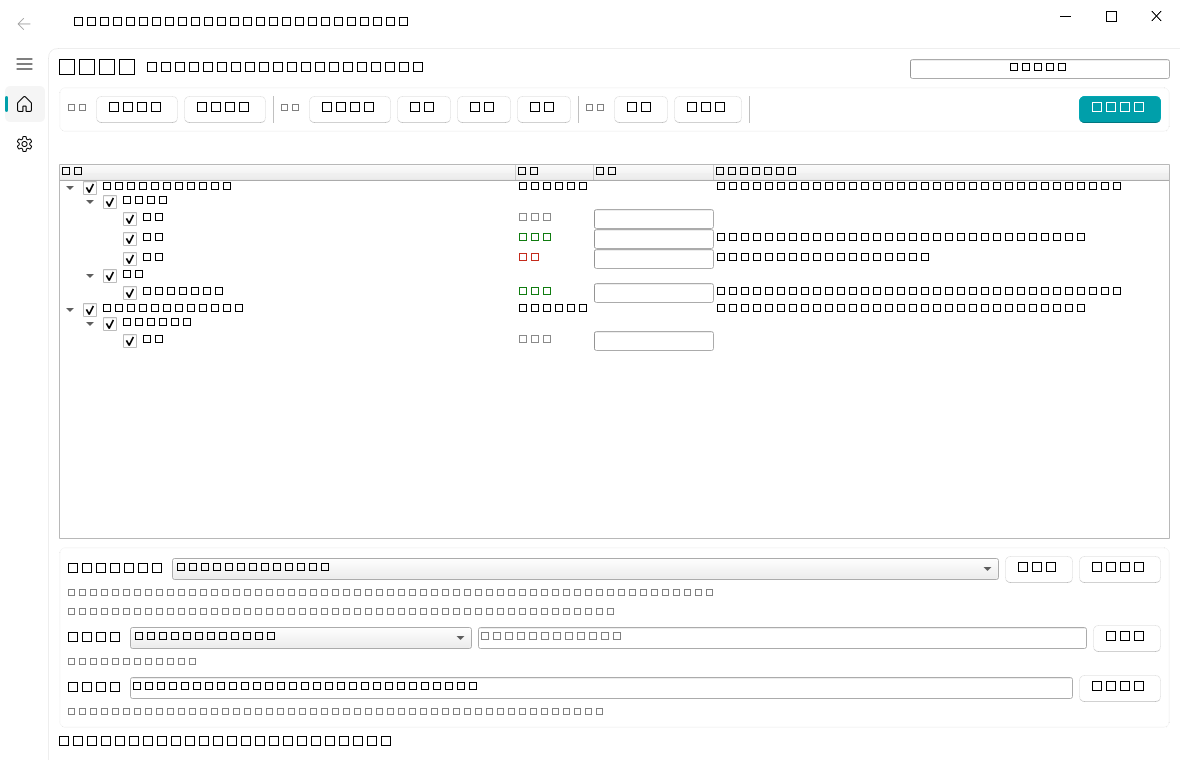
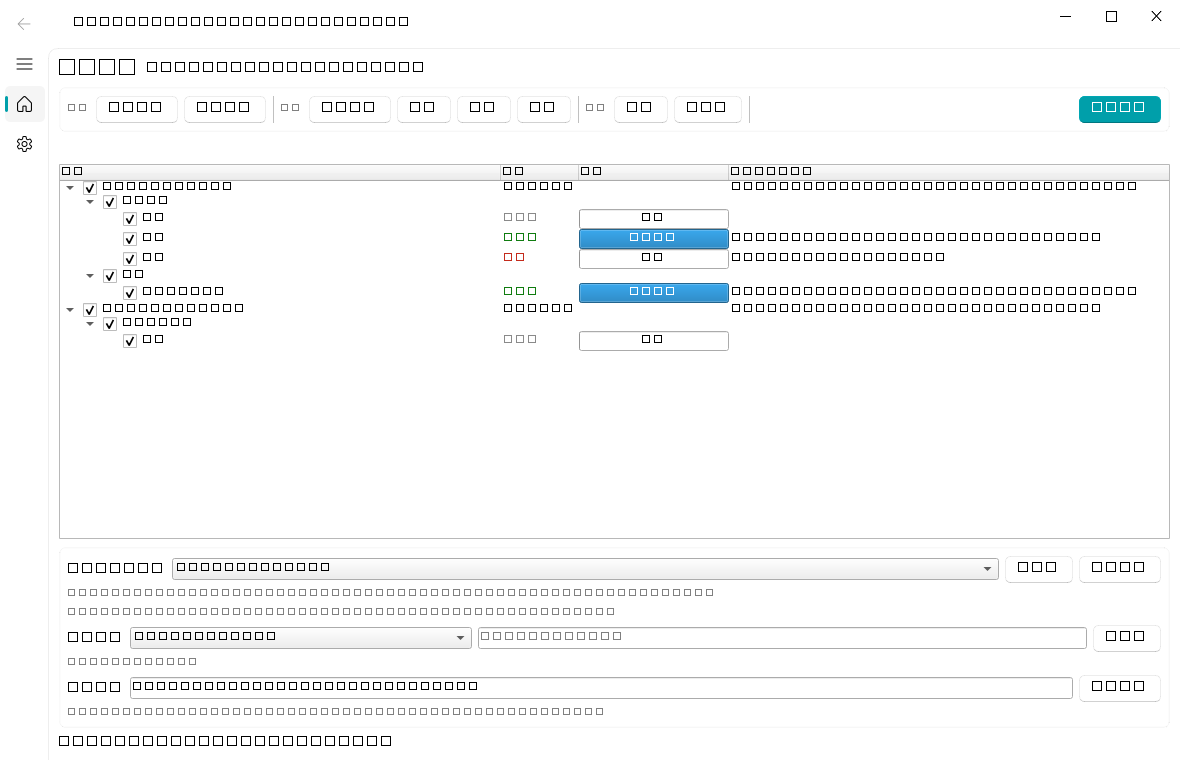
feat: 进度条体系优化
- 总进度：无“整体”字样、百分比独立固定宽度；无任务隐藏；探针/枚举时忙碌动画态
- 总进度平滑混算：当前张进度映射到其份额区间（不再 0%→10% 跳变）
- 快照进度与插件 rm_job 对齐：tile_progress 共享纯函数（像素权重+块切换防重复），修复多分块只算第一块类问题；7 个新单测
- 快照行：固定宽进度条内百分比文本；状态列只显示稳定文字；采样/块数移到左下角状态行与悬停提示
- 修复 itemChanged 信号内同步重建树导致的偶发访问冲突（延迟 refresh）

diff --git a/src/rmqueue/ui/queue_page.py b/src/rmqueue/ui/queue_page.py
@@ -14,7 +14,7 @@ import os
 import subprocess
 import sys
 
-from PySide6.QtCore import Qt, Signal
+from PySide6.QtCore import QTimer, Qt, Signal
 from PySide6.QtGui import QBrush, QColor, QGuiApplication
 from PySide6.QtWidgets import (
     QComboBox,
@@ -123,13 +123,19 @@ class QueuePage(QWidget):
         self.countLabel = BodyLabel("")
         head.addWidget(self.countLabel)
         head.addStretch(1)
+        self.lblPercent = QLabel("0.0%")
+        self.lblPercent.setAlignment(Qt.AlignmentFlag.AlignRight | Qt.AlignmentFlag.AlignVCenter)
+        fm = self.lblPercent.fontMetrics()
+        self.lblPercent.setFixedWidth(fm.horizontalAdvance("100.0%") + 6)
         self.progressOverall = QProgressBar()
         self.progressOverall.setRange(0, 1000)
         self.progressOverall.setValue(0)
-        self.progressOverall.setFixedWidth(260)
-        self.progressOverall.setTextVisible(True)
-        self.progressOverall.setFormat("整体 %p%")
+        self.progressOverall.setFixedWidth(240)
+        self.progressOverall.setTextVisible(False)
         head.addWidget(self.progressOverall)
+        head.addWidget(self.lblPercent)
+        self.progressOverall.hide()
+        self.lblPercent.hide()
         root.addLayout(head)
 
         # ---- 队列操作卡片（分组）
@@ -375,9 +381,11 @@ class QueuePage(QWidget):
                         sc_item.addChild(sh_item)
                         bar = QProgressBar()
                         bar.setRange(0, 1000)
-                        bar.setValue(0)
-                        bar.setTextVisible(False)
-                        bar.setFixedWidth(120)
+                        # 完成态直接满格；百分比文字恒定在条内（固定宽度，无抖动）
+                        bar.setValue(1000 if shot.app_status == "DONE" else 0)
+                        bar.setTextVisible(True)
+                        bar.setFormat("%p%")
+                        bar.setFixedWidth(150)
                         self.tree.setItemWidget(sh_item, 2, bar)
                         key = (_norm(f.path), scene.name, shot.uid)
                         self._rows[key] = (sh_item, bar)
@@ -418,7 +426,9 @@ class QueuePage(QWidget):
             if f is not None:
                 for shot in f.all_shots():
                     shot.selected = checked
-        self.refresh()
+        # 不要在 itemChanged 信号内同步重建树（删除信号源节点可能崩溃），
+        # 延迟到事件循环安全时刻再 refresh
+        QTimer.singleShot(0, self.refresh)
 
     def _set_all_selected(self, value: bool) -> None:
         if self._queue is None:
@@ -539,11 +549,33 @@ class QueuePage(QWidget):
             self.workerLabel.setText("渲染中…")
         else:
             self.workerLabel.setText("")
-            self.progressOverall.setValue(0)
+            self.overall_mode("hidden")
 
-    def set_overall(self, done: int, failed: int, total: int) -> None:
-        if total > 0:
-            self.progressOverall.setValue(int((done + failed) / total * 1000))
+    def overall_mode(self, mode: str) -> None:
+        """mode: hidden（无任务）| busy（忙碌动画，不显示数值）| normal（数值进度）"""
+        if mode == "hidden":
+            self.progressOverall.hide()
+            self.lblPercent.hide()
+        elif mode == "busy":
+            self.progressOverall.show()
+            self.progressOverall.setRange(0, 0)  # 忙碌动画（不定量）
+            self.lblPercent.hide()
+        else:  # normal
+            self.progressOverall.show()
+            self.progressOverall.setRange(0, 1000)
+            self.lblPercent.show()
+
+    def set_overall(self, value, total: int) -> None:
+        """总进度：value=已完成权重（含当前张部分进度，可为浮点），total=批次总数。
+
+        百分比取一位小数并填充到固定宽度，杜绝数字位长变化引起的抖动。
+        """
+        if not total or total <= 0:
+            return
+        frac = max(0.0, min(float(value) / total, 1.0))
+        self.progressOverall.setRange(0, 1000)
+        self.progressOverall.setValue(int(frac * 1000))
+        self.lblPercent.setText(f"{frac * 100:.1f}%")
 
     def set_worker_text(self, text: str) -> None:
         self.workerLabel.setText(text)
@@ -561,14 +593,15 @@ class QueuePage(QWidget):
                 continue
             item, bar = row
             status = j.get("status", "PENDING")
+            # 状态列只显示稳定文字（采样/块细节放左下角状态行 + 悬停提示）
             item.setText(1, status_text(status))
             item.setForeground(1, QBrush(_STATUS_COLORS.get(
                 status, _STATUS_COLORS["PENDING"])))
             samples = j.get("samples", 0)
             samples_total = j.get("samples_total", 0)
-            if status == "RENDERING" and samples_total:
-                item.setText(1, f"渲染中 {samples}/{samples_total}")
-                item.setToolTip(3, f"采样 {samples}/{samples_total}")
+            if status == "RENDERING":
+                item.setToolTip(3, f"采样 {samples}/{samples_total}"
+                                if samples_total else "渲染中…")
             elif status == "FAILED":
                 item.setText(3, j.get("error") or item.text(3))
                 item.setToolTip(3, item.text(3))
@@ -577,6 +610,8 @@ class QueuePage(QWidget):
                 item.setToolTip(3, j.get("path"))
             progress = float(j.get("progress") or 0.0)
             bar.setValue(int(max(0.0, min(progress, 1.0)) * 1000))
+            if status == "DONE":
+                bar.setValue(1000)
 
     # ============================================================ 配置
     def _update_resolved_hint(self) -> None:

diff --git a/src/rmqueue/ui/main_window.py b/src/rmqueue/ui/main_window.py
@@ -148,6 +148,10 @@ class MainWindow(FluentWindow):
             self._status("所选文件已在队列中（如需刷新请移除后重新添加）")
 
     def _start_probe(self, paths: list[str], exe: str) -> None:
+        if self._probe is not None and self._probe.isRunning():
+            return
+        self.page.overall_mode("busy")  # 忙碌动画：明确“正在加载”，避免以为卡死
+        self.page.set_worker_text(f"正在枚举 {len(paths)} 个文件…")
         self._probe = ProbeWorker(paths, exe, blender_probe.find_vendor_dir(), self)
         self._probe.fileProbed.connect(self._on_file_probed)
         self._probe.finished.connect(self._on_probe_finished)
@@ -164,6 +168,7 @@ class MainWindow(FluentWindow):
 
     def _on_probe_finished(self) -> None:
         self.page.refresh()
+        self.page.overall_mode("hidden")
         self._status("枚举完成")
 
     # ------------------------------------------------------ 渲染
@@ -202,35 +207,53 @@ class MainWindow(FluentWindow):
 
     def _on_file_started(self, path: str, total: int) -> None:
         self.page.refresh()  # 重建行/进度条注册表并保持全展开
+        self.page.overall_mode("normal")
         self.page.set_status(f"渲染中：{os.path.basename(path)}（{total} 张）")
-        self.page.set_overall(self._prev_done, self._prev_failed, self._grand_total)
+        self.page.set_overall(self._prev_done + self._prev_failed, self._grand_total)
 
     def _on_items_tick(self, path: str, items, done: int, failed: int,
                        total: int) -> None:
         self.page.on_items_tick(path, items, done, failed, total)
-        self.page.set_overall(self._prev_done + done,
-                              self._prev_failed + failed, self._grand_total)
-        current = next((e.get("name", "") for e in items
-                        if e.get("status") == "RENDERING"), "")
-        self.page.set_worker_text(f"当前：{current or '启动中'} · "
-                                  f"{self._prev_done + done + self._prev_failed + failed}"
-                                  f"/{self._grand_total}")
+        # 总进度平滑混算：已完成张（DONE/FAILED）按整张计 1，当前张按自身
+        # 进度（0..1，分块加权）映射到它的份额区间，避免“0%→10%”跳变
+        terminal = sum(1 for e in items
+                       if e.get("status") in ("DONE", "FAILED"))
+        partial = 0.0
+        current = ""
+        for e in items:
+            if e.get("status") == "RENDERING":
+                current = e.get("name", "")
+                partial = float(e.get("progress") or 0.0)
+                break
+        value = (self._prev_done + self._prev_failed + terminal + partial)
+        self.page.set_overall(value, self._grand_total)
+        # 左下角状态行：当前快照 + 采样/块细节 + 批次计数
+        running = next((e for e in items if e.get("status") == "RENDERING"), None)
+        details = f"当前：{current or '启动中'}"
+        if running is not None:
+            s, st = running.get("samples", 0), running.get("samples_total", 0)
+            td, tt = running.get("tiles_done", 0), running.get("tiles_total", 0)
+            if st:
+                details += f" · 采样 {s}/{st}"
+            if tt and tt > 1:
+                details += f" · 块 {min(int(td) + 1, int(tt))}/{tt}"
+        done_all = self._prev_done + done + self._prev_failed + failed
+        self.page.set_status(f"{details} ｜ 批次 {done_all}/{self._grand_total}")
 
     def _on_file_finished(self, path: str, summary: dict) -> None:
         self._prev_done += summary["done"]
         self._prev_failed += summary["failed"]
         self.page.refresh()
-        self.page.set_overall(self._prev_done, self._prev_failed, self._grand_total)
+        self.page.set_overall(self._prev_done + self._prev_failed, self._grand_total)
 
     def _on_run_finished(self, overview: dict) -> None:
         self.page.set_worker_text("")
-        self._set_busy(False)
+        self._set_busy(False)  # 会隐藏总进度条（无任务状态）
         self.page.refresh()
         cancelled = overview.get("cancelled")
         msg = overview.get("message", "")
         if not cancelled:
             done, failed = overview.get("done", 0), overview.get("failed", 0)
-            self.page.set_overall(done, failed, self._grand_total)
             self._status(f"{msg} —— 输出见各快照「输出」列",
                          level="ok" if failed == 0 else "warn")
         else:

diff --git a/src/rmqueue/render_session.py b/src/rmqueue/render_session.py
@@ -64,6 +64,7 @@ RENDER_SCRIPT = textwrap.dedent(
         from render_monitor import core
         from render_monitor import utils as rm_utils
         from rmqueue import naming, progress as rprogress
+        from rmqueue import tile_progress as rm_prog
 
         with open(jobs_json, encoding="utf-8") as f:
             jobs = json.load(f)
@@ -71,7 +72,8 @@ RENDER_SCRIPT = textwrap.dedent(
             {"scene": j["scene"], "uid": j["uid"], "index": j["index"],
              "name": j.get("name", ""), "status": "PENDING",
              "path": "", "error": "", "progress": 0.0,
-             "samples": 0, "samples_total": 0}
+             "samples": 0, "samples_total": 0,
+             "tiles_done": 0, "tiles_total": 1}
             for j in jobs
         ]
         total = len(reported)
@@ -80,8 +82,10 @@ RENDER_SCRIPT = textwrap.dedent(
             rprogress.write_file(progress_path,
                                  {"state": state, "total": total, "jobs": reported})
 
-        def _make_progress_handler(entry):
-            # render_stats 回调：把采样/分块进度写入当前项（0.5s 节流）
+        def _make_progress_handler(entry, tile_weights):
+            # render_stats 回调：与插件 rm_job 一致 —— 已完成块按像素权重
+            # 加权 + 当前块按采样比例插值；块切换瞬间（cur 残留满格而 td 已
+            # +1）不重复计入；单调递增；0.5s 节流写回。
             last = [0.0]
 
             def handler(stats_str):
@@ -93,15 +97,17 @@ RENDER_SCRIPT = textwrap.dedent(
                     tt = parsed.get("tiles_total") or 1
                     entry["samples"] = cur
                     entry["samples_total"] = ttl
-                    if ttl > 0:
-                        if tt > 1 and tt >= td + 1:
-                            entry["progress"] = min((td + cur / ttl) / tt, 1.0)
-                        else:
-                            entry["progress"] = min(cur / ttl, 1.0)
-                    elif tt > 1 and td:
-                        entry["progress"] = min(td / tt, 1.0)
-                    if any(k in stats_str
-                           for k in ("Finished", "Denoising", "Finishing")):
+                    entry["tiles_done"] = td
+                    entry["tiles_total"] = tt
+                    new_p = rm_prog.shot_progress(
+                        cur, ttl, td, tt, tile_weights,
+                        entry.get("progress", -1.0))
+                    if new_p is not None:
+                        entry["progress"] = new_p
+                    # 收尾（去噪/合成/保存）阶段：进度置满
+                    if any(k in stats_str for k in
+                           ("Finished", "Denoising", "Finishing",
+                            "Reading full buffer")):
                         entry["progress"] = 1.0
                     now = time.monotonic()
                     if now - last[0] >= 0.5:
@@ -147,7 +153,20 @@ RENDER_SCRIPT = textwrap.dedent(
                 tmp_path = path + f".rmtmp{os.urandom(4).hex()}"
                 actual_path = tmp_path + "." + ext
                 scene.render.filepath = tmp_path
-                handler = _make_progress_handler(entry)
+                # 与插件一致：按当前分辨率/平铺尺寸计算各分块像素权重
+                try:
+                    tile_size = getattr(scene.cycles, "tile_size", 2048) or 2048
+                except AttributeError:
+                    tile_size = 2048
+                try:
+                    res_w = int(scene.render.resolution_x *
+                                scene.render.resolution_percentage / 100)
+                    res_h = int(scene.render.resolution_y *
+                                scene.render.resolution_percentage / 100)
+                except (AttributeError, TypeError):
+                    res_w = res_h = 1
+                tile_weights = rm_utils.compute_tile_weights(res_w, res_h, tile_size)
+                handler = _make_progress_handler(entry, tile_weights)
                 bpy.app.handlers.render_stats.append(handler)
                 bpy.ops.render.render(scene=scene.name, write_still=True,
                                       use_viewport=False)

diff --git a/tests/test_tile_progress.py b/tests/test_tile_progress.py
@@ -1,0 +1,60 @@
+"""分块进度插值逻辑测试（与插件 rm_job 算法对齐的纯函数）。"""
+
+import unittest
+
+from rmqueue.tile_progress import shot_progress
+
+
+class TestSingleTile(unittest.TestCase):
+    def test_sample_ratio(self):
+        p = shot_progress(25, 100, 0, 1, [], prev=-1)
+        self.assertAlmostEqual(p, 0.25)
+
+    def test_monotonic_none_when_stale(self):
+        p = shot_progress(25, 100, 0, 1, [], prev=-1)
+        # 更小或相等的进度不应回退
+        self.assertIsNone(shot_progress(20, 100, 0, 1, [], prev=p))
+
+
+class TestMultiTileWeights(unittest.TestCase):
+    def test_weighted_accumulation(self):
+        # 3 块：权重 0.5 / 0.25 / 0.25（模拟边缘块更小）
+        weights = [0.5, 0.25, 0.25]
+        # 第一块渲染一半 → 0.5 * 0.5
+        p1 = shot_progress(50, 100, 0, 3, weights, prev=-1)
+        self.assertAlmostEqual(p1, 0.25)
+        # 第一块完成、第二块进行到一半 → 0.5 + 0.25*0.5
+        p2 = shot_progress(50, 100, 1, 3, weights, prev=p1)
+        self.assertAlmostEqual(p2, 0.625)
+        # 第二块也完成、第三块进行中 → 0.75 + 0.25*0.5
+        p3 = shot_progress(50, 100, 2, 3, weights, prev=p2)
+        self.assertAlmostEqual(p3, 0.875)
+
+    def test_tile_switch_no_double_count(self):
+        """块完成瞬间（cur==total 残留满格）不应重复计入刚完成的块。"""
+        weights = [0.5, 0.25, 0.25]
+        prev = 0.5  # 第一块已完成
+        # 第二块 stats：td=1, cur=100 == ttl=100（残留上一块满值）
+        self.assertIsNone(shot_progress(100, 100, 1, 3, weights, prev=prev))
+        # 随后第二块真正开始：cur=1 应推进到 0.5 + 0.25*(1/100)
+        p = shot_progress(1, 100, 1, 3, weights, prev=prev)
+        self.assertAlmostEqual(p, 0.5025)
+
+    def test_equal_weight_fallback_when_no_weights(self):
+        p = shot_progress(50, 100, 1, 2, [], prev=-1)
+        self.assertAlmostEqual(p, 0.75)  # (1 + 0.5) / 2
+
+    def test_no_samples_tiles_only(self):
+        p = shot_progress(0, 0, 2, 4, [], prev=-1)
+        self.assertAlmostEqual(p, 0.5)
+        # 再次报相同块数不应回退/前进
+        self.assertIsNone(shot_progress(0, 0, 2, 4, [], prev=p))
+
+    def test_clamped(self):
+        # 第二块起全部按 0.01 权重：99/100 采样 → 0.99 + 0.01*0.99
+        p = shot_progress(99, 100, 99, 100, [0.01] * 100, prev=-1)
+        self.assertAlmostEqual(p, 0.9999)
+
+
+if __name__ == "__main__":
+    unittest.main()

diff --git a/src/rmqueue/tile_progress.py b/src/rmqueue/tile_progress.py
@@ -1,0 +1,45 @@
+"""单张渲染进度 = 已完成块像素权重 + 当前块按采样比例插值（与插件 rm_job 一致）。
+
+设计要点（对齐插件历史修复）：
+- 多分块时若只按“当前块采样/总采样”计算会卡在第一块，这里对每个分块按
+  Cycles 行优先顺序累加真实像素权重（边缘块更小，权重也随之更小）；
+- 块完成瞬间 stats 的 Sample 残留上一块满值而 Rendered X/Y 已 +1：此时
+  必须跳过插值（cur == total），否则同一块被重复计入导致进度跳变；
+- 返回的新进度只允许单调不减，调用方若收到 None 则不更新。
+"""
+
+from __future__ import annotations
+
+
+def shot_progress(
+    cur: int,
+    samples_total: int,
+    tiles_done: int,
+    tiles_total: int,
+    weights: list[float],
+    prev: float,
+) -> float | None:
+    """返回更新后的进度（0..1）；不需要更新时返回 None。
+
+    参数含义与 render_stats 对应：cur=当前采样、samples_total=当前块总采样、
+    tiles_done/tiles_total=已完成块数/总块数、weights=各块像素权重（和为 1）。
+    """
+    ttl = samples_total
+    td = tiles_done
+    tt = tiles_total
+    if ttl > 0 and cur < ttl:
+        # 当前块仍在采样：正常插值
+        if len(weights) == tt and tt > 1:
+            done_w = sum(weights[:td])
+            cur_w = weights[td] if td < len(weights) else 0.0
+            prog = done_w + cur_w * (cur / ttl)
+        elif tt > 1:
+            prog = (td + cur / ttl) / tt
+        else:
+            prog = cur / ttl
+        return min(max(prog, 0.0), 1.0) if prog > prev else None
+    if tt > 1 and td and not ttl:
+        # 无采样信息（非 Cycles / 统计缺失）：按块等权近似
+        prog = td / tt
+        return min(max(prog, 0.0), 1.0) if prog > prev else None
+    return None
